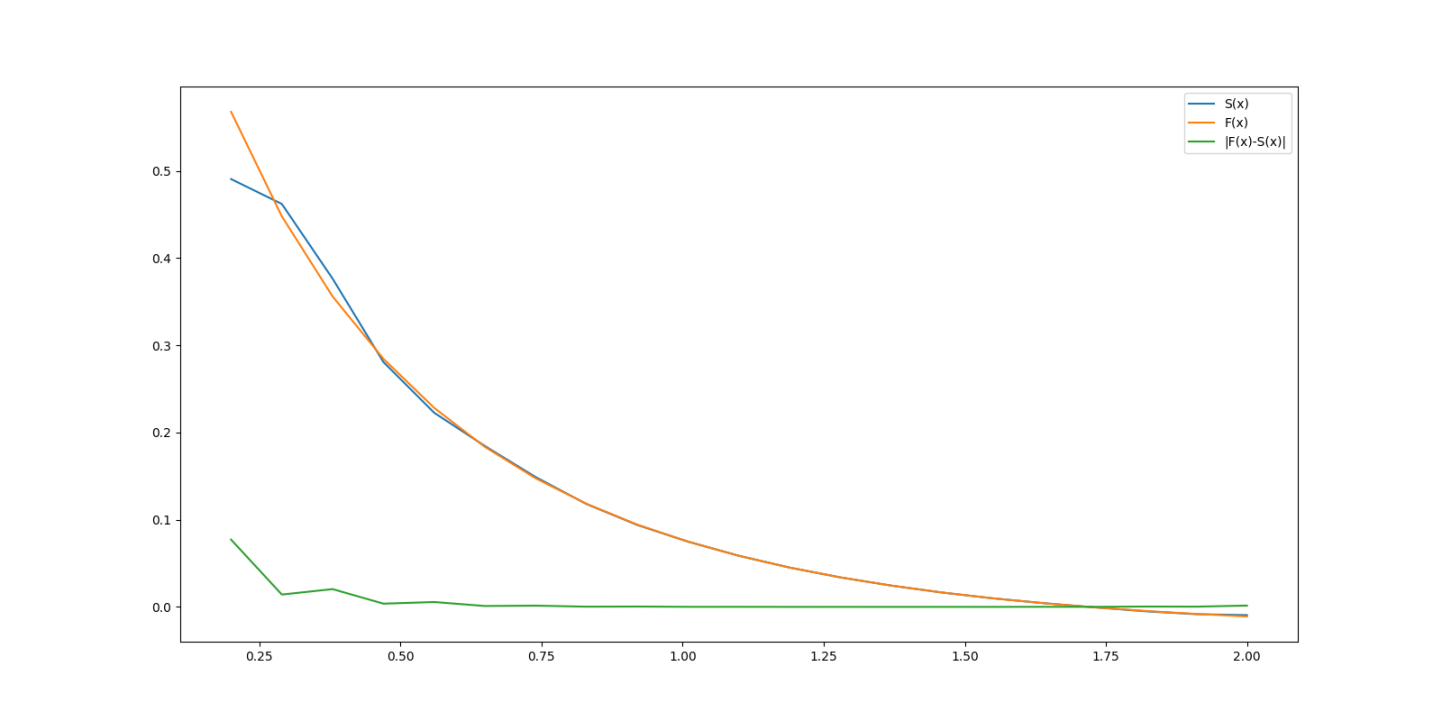
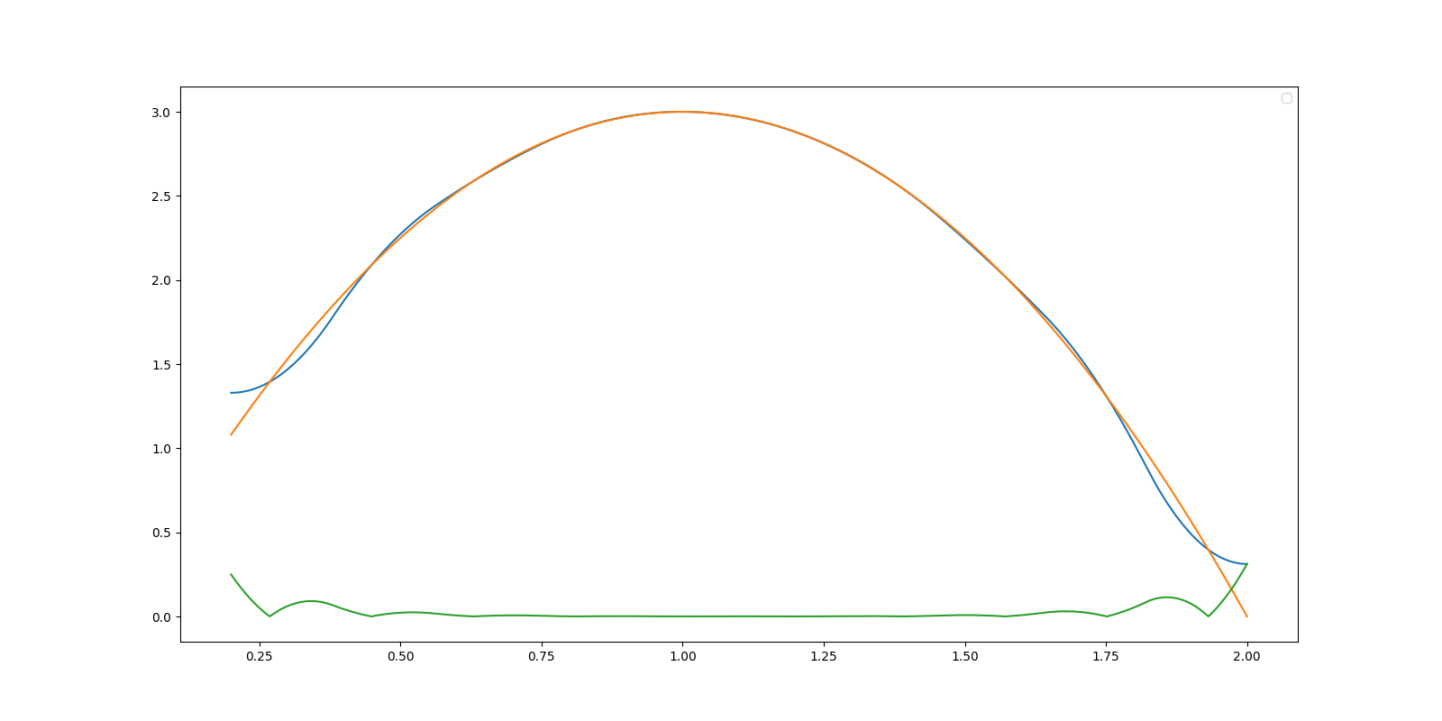
dense

diff --git a/ui/ui.py b/ui/ui.py
@@ -8,6 +8,7 @@ from PyQt5.QtGui import QPixmap
 import cv2
 import imutils
 import subprocess
+import numpy as np
 
 sys.path.insert(1, '../method/')
 import method
@@ -51,15 +52,15 @@ max|F''(xi)-S''(xi)| = %
 
     def goButtonClicked(self):
         if self.isMain11.isChecked():
-            self.processMain(method.calculateMain11)
+            self.processMain(method.calculateMain11, method.Task1Func1, method.dTask1Func1, method.d2Task1Func1)
         elif self.isMain12.isChecked():
-            self.processMain(method.calculateMain12)
+            self.processMain(method.calculateMain12, method.Task1Func2, method.dTask1Func2, method.d2Task1Func2)
         elif self.isMain21.isChecked():
-            self.processMain(method.calculateMain21)
+            self.processMain(method.calculateMain21, method.Task2Func1, method.dTask2Func1, method.d2Task2Func1)
         elif self.isMain22.isChecked():
-            self.processMain(method.calculateMain22)
+            self.processMain(method.calculateMain22, method.Task2Func2, method.dTask2Func2, method.d2Task2Func2)
         elif self.isTest.isChecked():
-            self.processMain(method.calculateTf)
+            self.processMain(method.calculateTf, method.tf, method.dtf, method.d2tf)
 
     def drawPlanes(self, data, name):
         plt.figure(figsize=(16, 8))
@@ -68,6 +69,23 @@ max|F''(xi)-S''(xi)| = %
         plt.legend(('S(x)', 'F(x)', '|F(x)-S(x)|'))
         plt.savefig("../planes/" + name + ".png")
         plt.clf()
+
+    def drawPlanesDense(self, coefs, func, xval, name):
+        left = float(self.aBox.text())
+        right = float(self.bBox.text())
+        X = np.linspace(left, right, 10000)
+        plt.figure(figsize=(16, 8))
+        plt.legend(('S(x)', 'F(x)', '|F(x)-S(x)|'))
+        spl = [method.splain(*coefs, xval, 0, x) for x in X]
+        fun = [func(x) for x in X]
+        err = [abs(spl[i]-fun[i]) for i in range(len(spl))]
+        plt.plot(X, spl)
+        plt.plot(X, fun)
+        plt.plot(X, err)
+        plt.savefig("../planes/" + name + ".png")
+        plt.clf()
+
+
 
     def parseCoefs(self):
         return int(self.nBox.text()), float(self.aBoundBox.text()), float(self.bBoundBox.text()), float(
@@ -122,15 +140,22 @@ max|F''(xi)-S''(xi)| = %
     def showHelp(self):
         subprocess.run("python helpui.py")
 
-    def processMain(self, calcf):
+    def processMain(self, calcf, func, funcd, func2d):
         n, A, B, a_, b_ = self.parseCoefs()
         data = calcf(n, a_, b_, A, B)
         err = self.getErr(*(data[2]))
         err_ = self.getErr(*(data[3]))
         err__ = self.getErr(*(data[4]))
-        self.drawPlanes([[data[0], data[2][0]], [data[0], data[2][1]], [data[0], err]], "func")
-        self.drawPlanes([[data[0], data[3][0]], [data[0], data[3][1]], [data[0], err_]], "funcd")
-        self.drawPlanes([[data[0], data[4][0]], [data[0], data[4][1]], [data[0], err__]], "func2d")
+        #self.drawPlanes([[data[0], data[2][0]], [data[0], data[2][1]], [data[0], err]], "func")
+        #self.drawPlanes([[data[0], data[3][0]], [data[0], data[3][1]], [data[0], err_]], "funcd")
+        #self.drawPlanes([[data[0], data[4][0]], [data[0], data[4][1]], [data[0], err__]], "func2d")
+        coefs = data[1]
+        xval = data[5]
+        self.drawPlanesDense(coefs, func, xval, "func")
+        coefs = method.splainDer(*coefs)
+        self.drawPlanesDense(coefs, funcd, xval, "funcd")
+        coefs = method.splainDer(*coefs)
+        self.drawPlanesDense(coefs, func2d, xval, "func2d")
         self.FuncPlane.setPixmap(self.resizeImage("../planes/func.png", self.FuncPlane))
         self.DerPlane.setPixmap(self.resizeImage("../planes/funcd.png", self.DerPlane))
         self.Der2Plane.setPixmap(self.resizeImage("../planes/func2d.png", self.Der2Plane))

diff --git a/method/method.py b/method/method.py
@@ -64,6 +64,7 @@ def dTask2Func1(x):
 def d2Task2Func1(x):
     return d2Task1Func1(x)
 
+
 def Task2Func2(x):
     return (x ** 0.5) * np.sin(x) + np.cos(10)
 
@@ -147,7 +148,7 @@ def splain(A, B, C, D, X, n, x):
     for i in range(1, len(X)):
         if x >= X[i - 1] and x < X[i]:
             return A[i - 1] + B[i - 1] * (x - X[i]) + (C[i - 1] / 2) * ((x - X[i]) ** 2) + (D[i - 1] / 6) * (
-                        (x - X[i]) ** 3)
+                    (x - X[i]) ** 3)
         elif x == X[i]:
             return A[i - 1]
 
